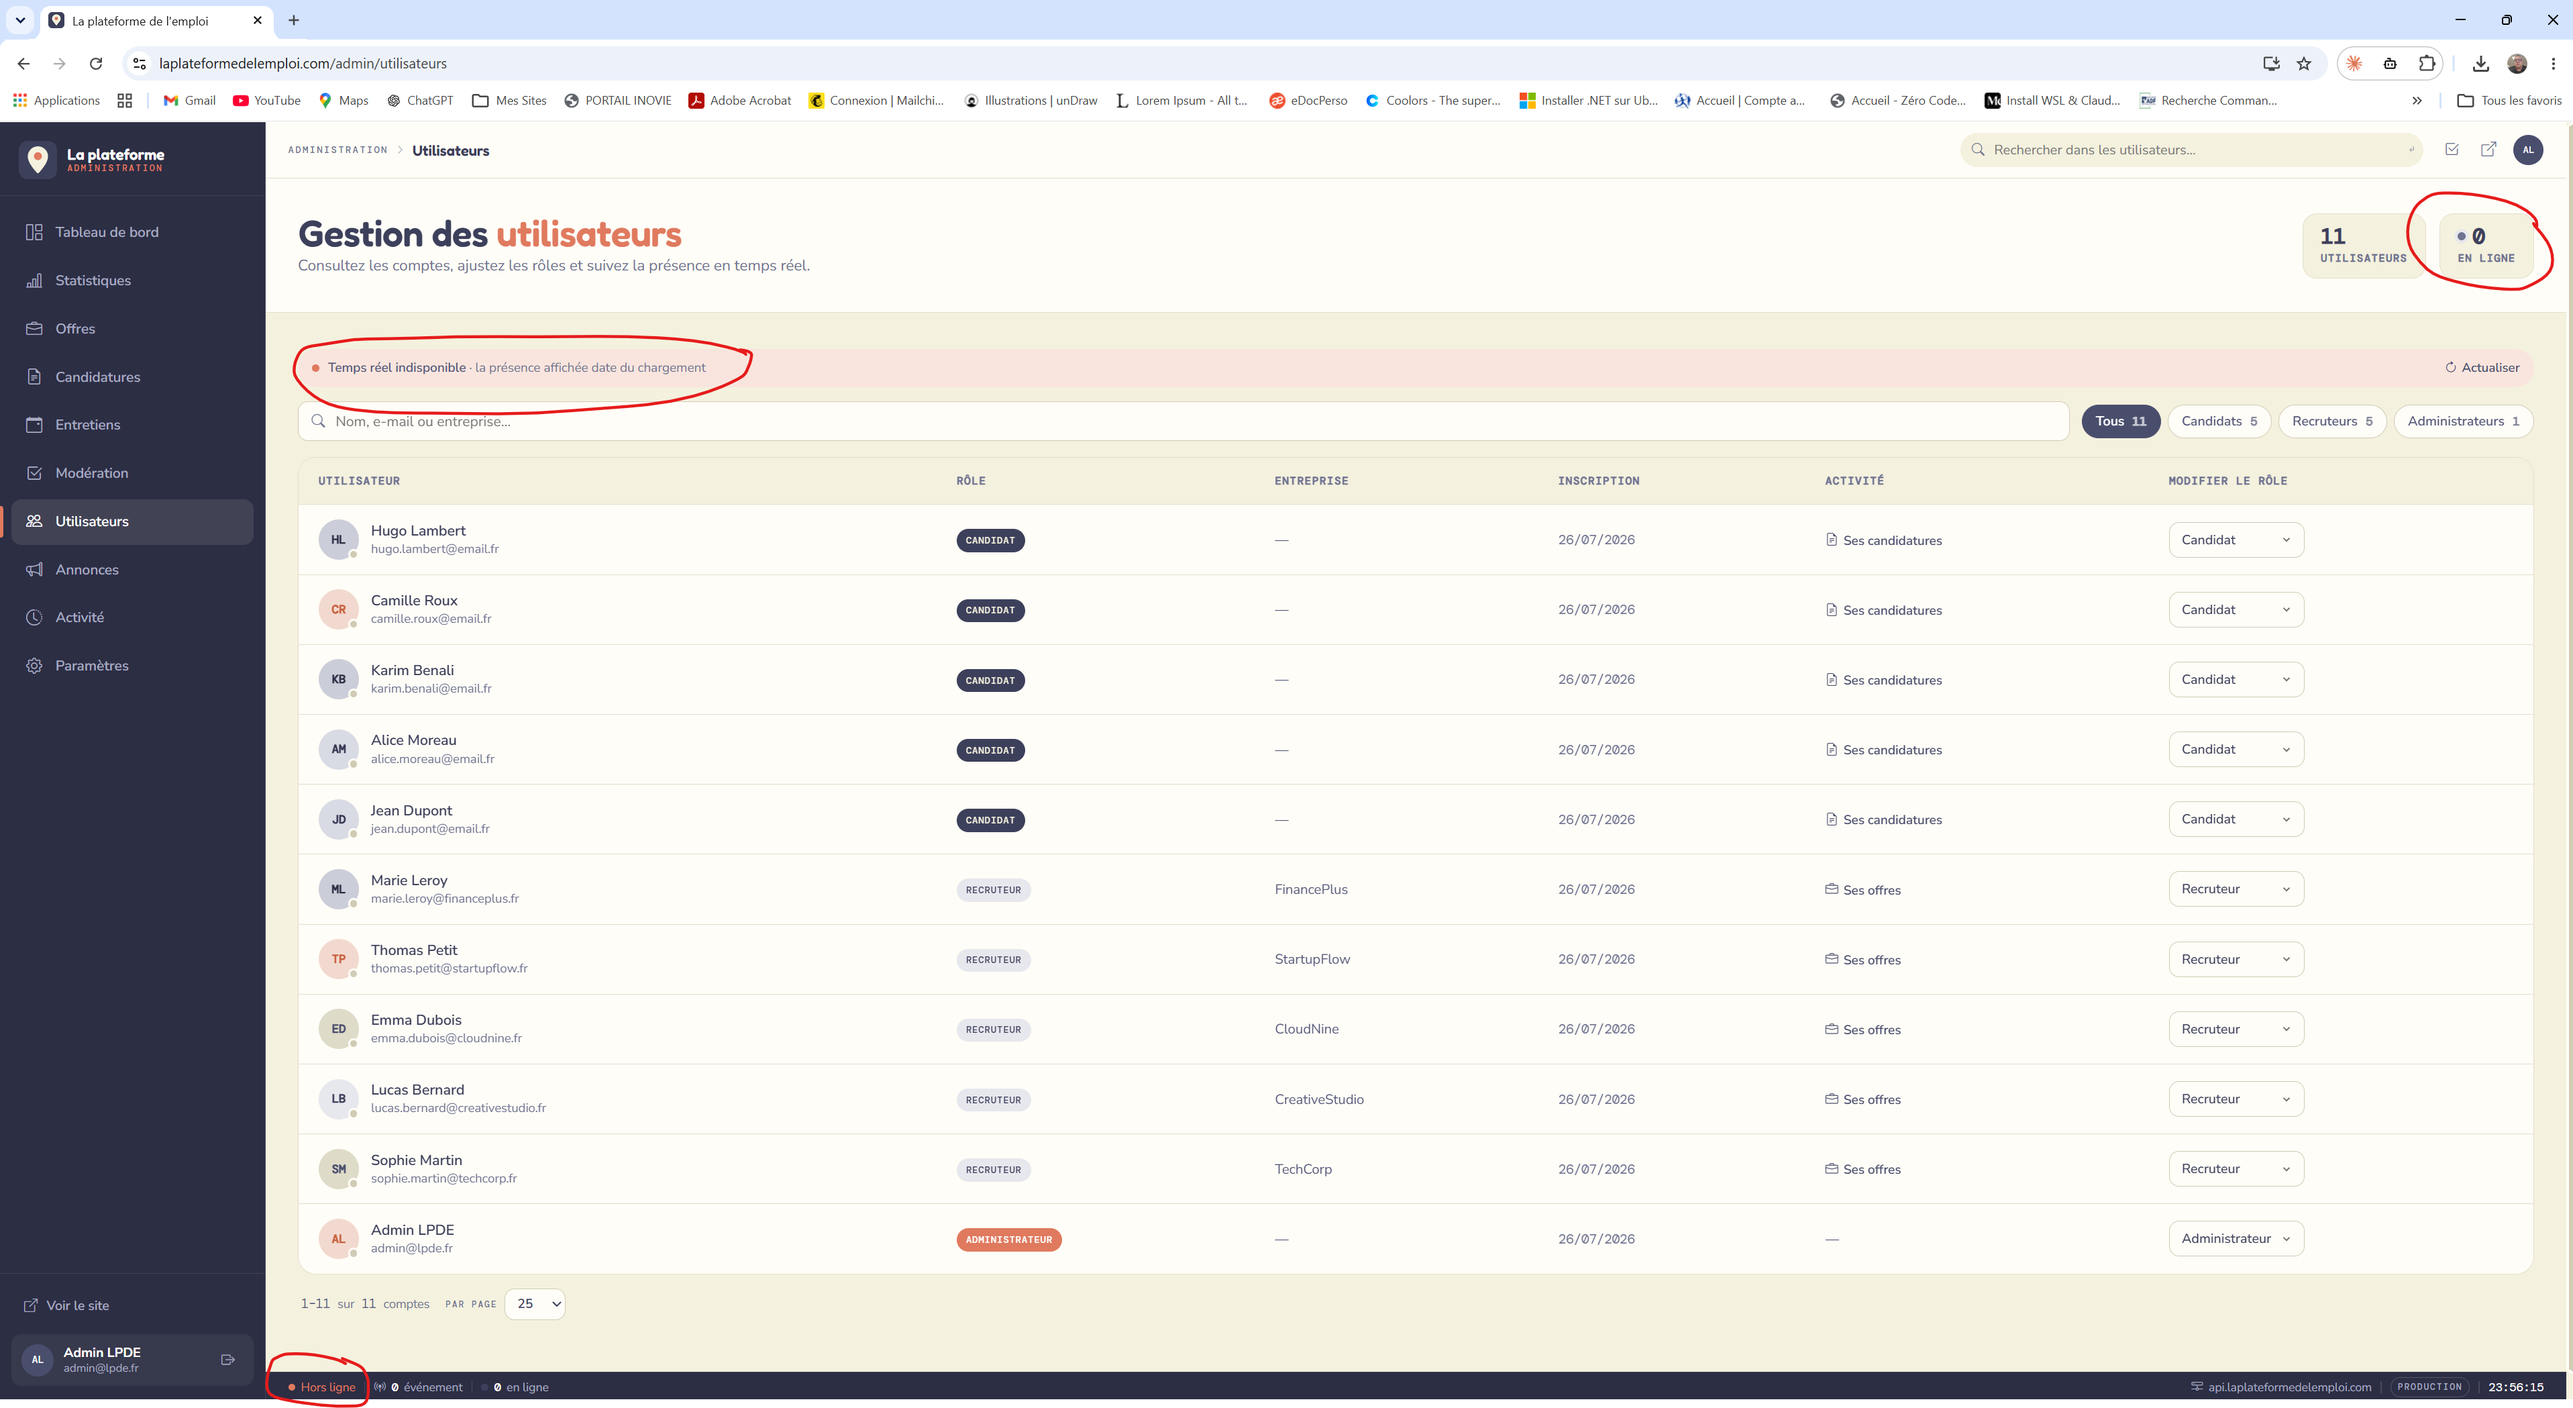
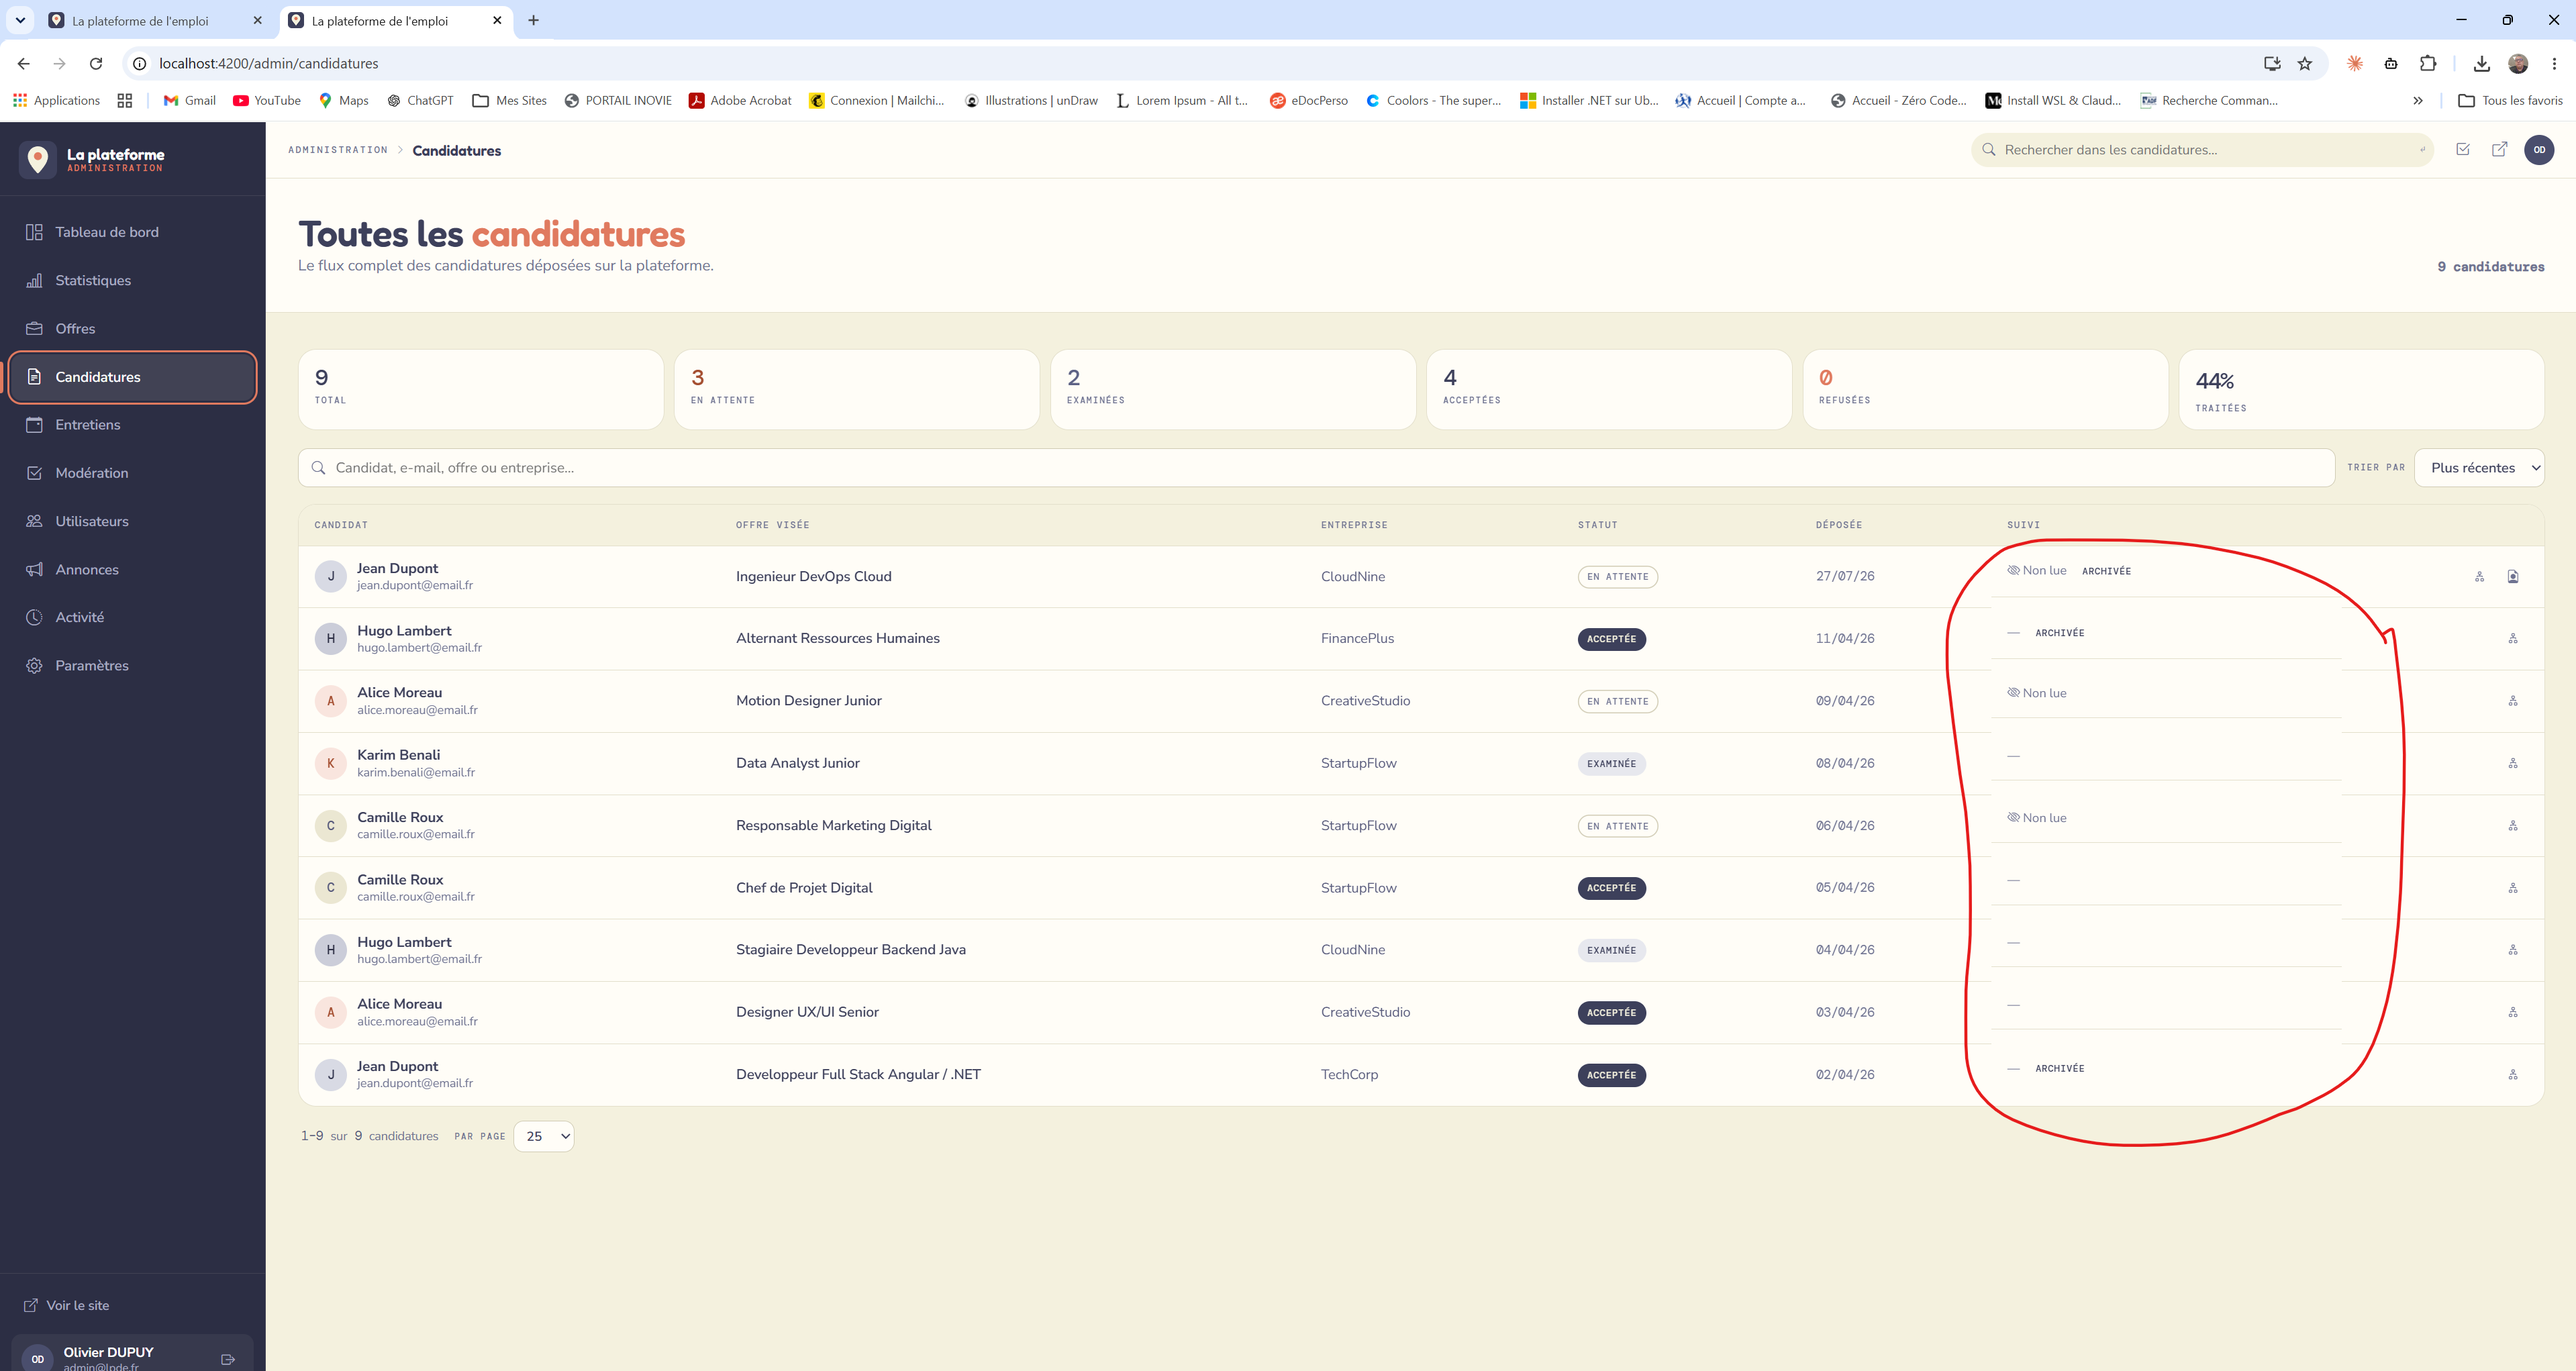
fix(tableaux): les cellules decalees redeviennent des cellules
Trois colonnes portaient display:flex directement sur le <td>. Cette
declaration ecrase display:table-cell : l'element cesse d'etre une
cellule, sort de l'alignement de la rangee et perd son vertical-align.
Le filet de bordure se dessinait alors autour d'elle, d'ou le decalage
vertical et le trait parasite visibles dans « Suivi ».

Le flex passe sur un conteneur interne, ou il ne coute rien. Concerne les
candidatures, la fiche d'un compte et les entretiens.

Verifie : les sept cellules d'une rangee partagent desormais la meme
ligne, sur les cinq premieres lignes mesurees.

diff --git a/src/app/components/admin-user-detail/admin-user-detail.html b/src/app/components/admin-user-detail/admin-user-detail.html
@@ -219,7 +219,8 @@
                       </td>
                       <td><span class="badge" [class]="statusBadge(a.status)">{{ statusLabel(a.status) }}</span></td>
                       <td class="u-mono aud-date">{{ a.appliedAt | date:'dd/MM/yy' }}</td>
-                      <td class="aud-track">
+                      <td>
+                    <div class="aud-track">
                         <!-- La date de consultation n'est enregistrée que
                              depuis sa mise en place : une candidature déjà
                              traitée avant peut ne pas en porter. On ne la
@@ -232,7 +233,8 @@
                           <span class="aud-muted">—</span>
                         }
                         @if (a.isArchived) { <span class="badge">Archivée</span> }
-                      </td>
+                    </div>
+                  </td>
                             <td>
                         <div class="aud-row-act">
                           <select class="aud-sel" [value]="a.status"

diff --git a/src/app/components/admin-applications/admin-applications.html b/src/app/components/admin-applications/admin-applications.html
@@ -139,7 +139,8 @@
                   </a>
                 </td>
                 <td class="u-mono aap-date">{{ a.appliedAt | date:'dd/MM/yy' }}</td>
-                <td class="aap-track">
+                <td>
+                    <div class="aap-track">
                   <!-- La date de consultation n'existe que depuis sa mise
                        en place : un dossier traité avant n'en porte pas,
                        et « non lu » serait faux. -->
@@ -153,7 +154,8 @@
                     <span class="aap-unseen">—</span>
                   }
                   @if (a.isArchived) { <span class="badge">Archivée</span> }
-                </td>
+                    </div>
+                  </td>
                 <td>
                   <div class="aap-actions">
                     <a [routerLink]="['/admin/candidatures']" [queryParams]="{ offre: a.jobOfferId }"

diff --git a/src/app/components/admin-interviews/admin-interviews.html b/src/app/components/admin-interviews/admin-interviews.html
@@ -124,10 +124,12 @@
                   <a [routerLink]="['/admin/offres']" [queryParams]="{ entreprise: i.company }"
                      class="ain-company">{{ i.company }}</a>
                 </td>
-                <td class="ain-when">
+                <td>
+                    <div class="ain-when">
                   <span class="u-mono">{{ i.proposedAt | date:'dd/MM/yy HH:mm' }}</span>
                   @if (i.duration) { <span class="ain-dur">{{ i.duration }} min</span> }
-                </td>
+                    </div>
+                  </td>
                 <td>
                   @if (i.type) {
                     <a class="tag" [routerLink]="['/admin/entretiens']" [queryParams]="{ type: i.type }">{{ i.type }}</a>
